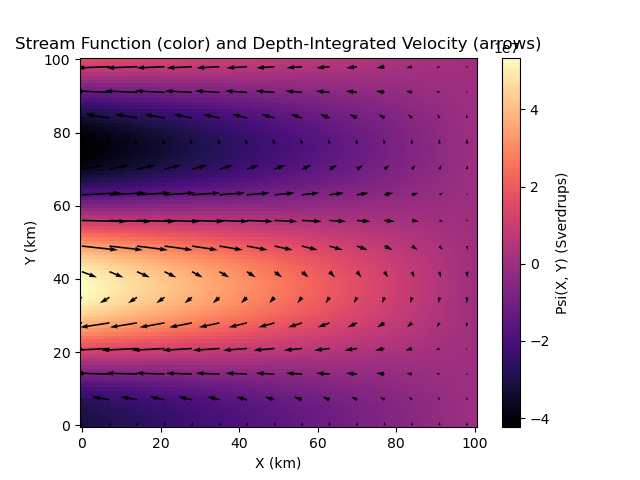
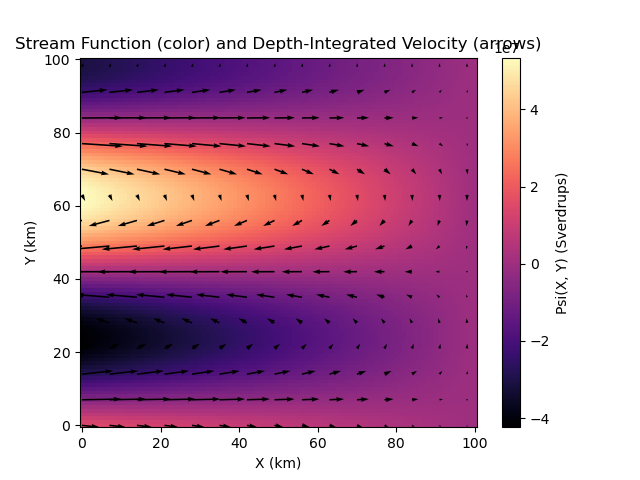
fixed the Psi plot AGAIN, added arrow drawing plot, made new mass transport vector plot

diff --git a/project5.py b/project5.py
@@ -37,7 +37,7 @@ def Psi():
         for j in range(len(width)):
             dT_val = dTau_dy[j] # find the value of dTau/dy at the current y value
             # because this dT_val is constant across x, we can take it out of the integral
-            Psi_vals[i, -j-1] = 1 / (rho_b * beta) * dT_val * (x_vals[i] - x_vals[-1]) # and just multiply by the x distance
+            Psi_vals[i, j] = 1 / (rho_b * beta) * dT_val * (x_vals[i] - x_vals[-1]) # and just multiply by the x distance
     
     return x_vals, Psi_vals
 
@@ -76,6 +76,20 @@ plt.title('Wind Stress over Y')
 plt.savefig('P5_stressY.png')
 #plt.show()
 
+# plot wind stress with mass transport vectors overlayed
+plt.figure()
+scaling2 = 0.02
+plt.plot(windStress*120, width, markersize = 4)
+Up2 = np.zeros_like(Up)
+V2 = np.vstack([massTransport_y] * len(length))
+Vp2 = V2[::step, ::step]
+plt.quiver(Xp, Yp, scaling2*Up2, scaling2*Vp2)
+
+plt.xlabel('X ($km$)')
+plt.ylabel('Y ($km$)')
+plt.title('Wind Stress (scaled) and Mass Transport (scaled arrows)')
+plt.savefig('P5_stressMassvecY.png')
+plt.show()
 
 # TODO: plot this as vectors instead
 #Plot Mass Transport
